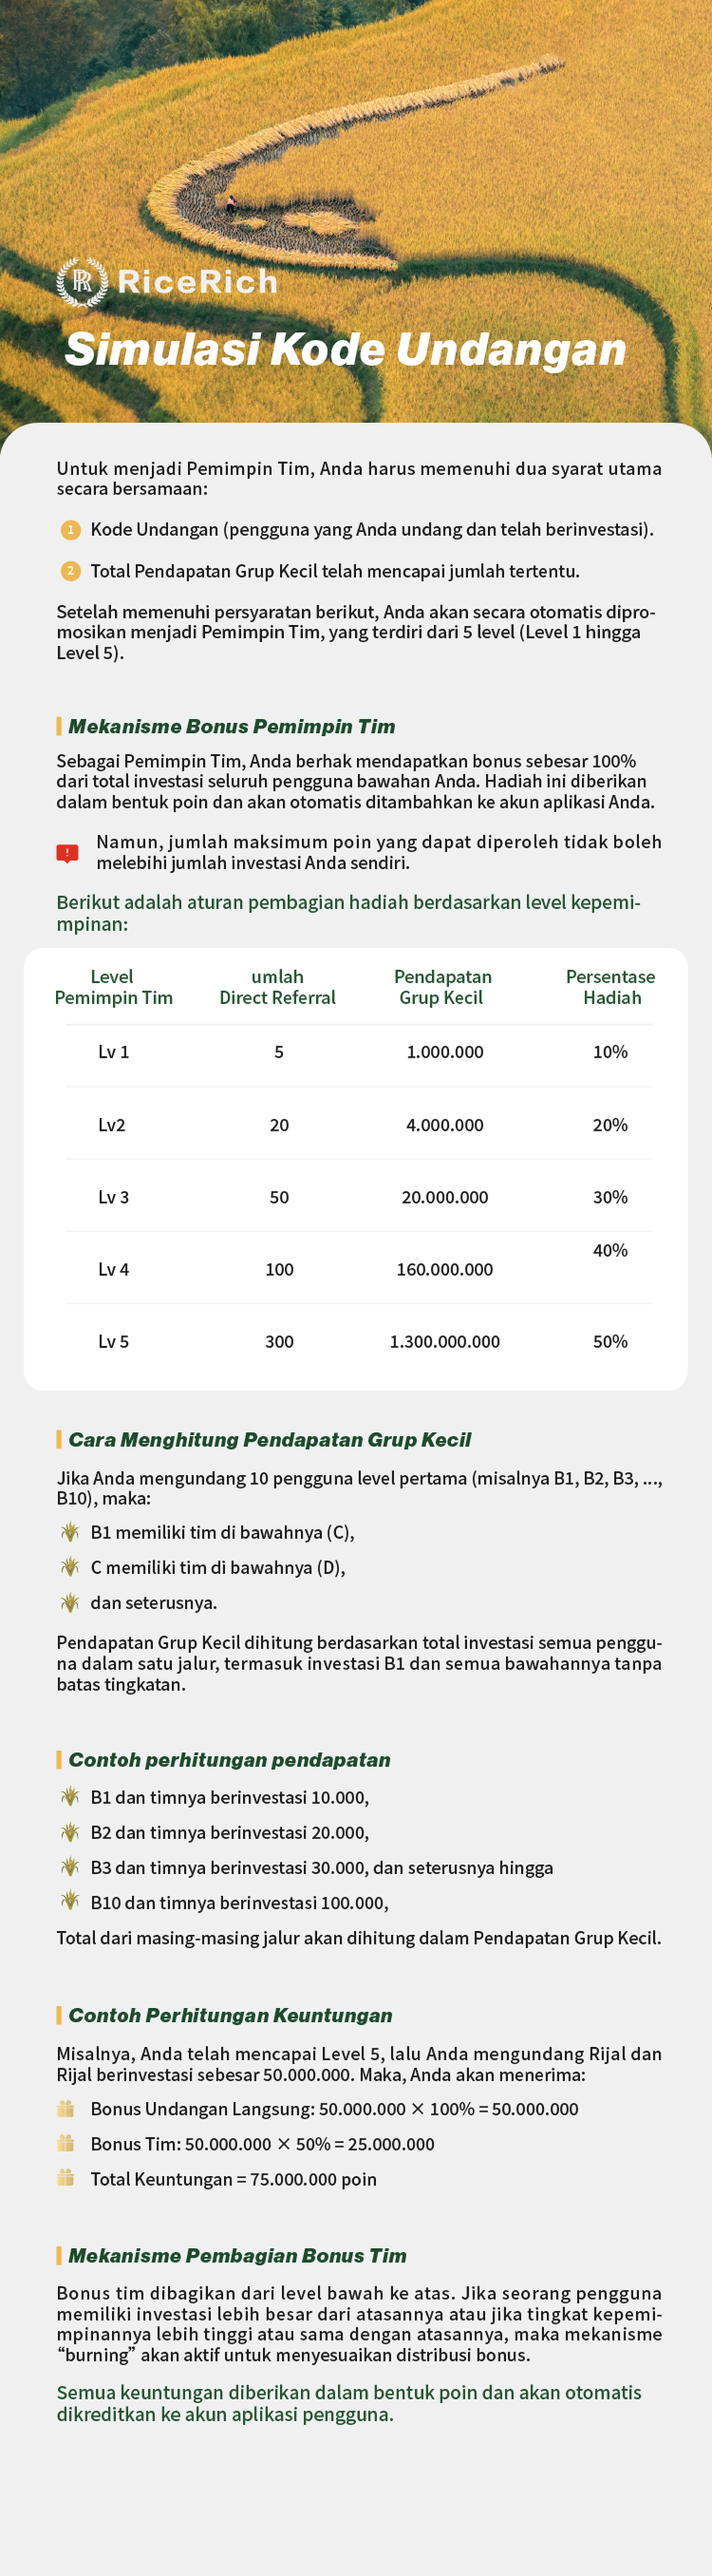
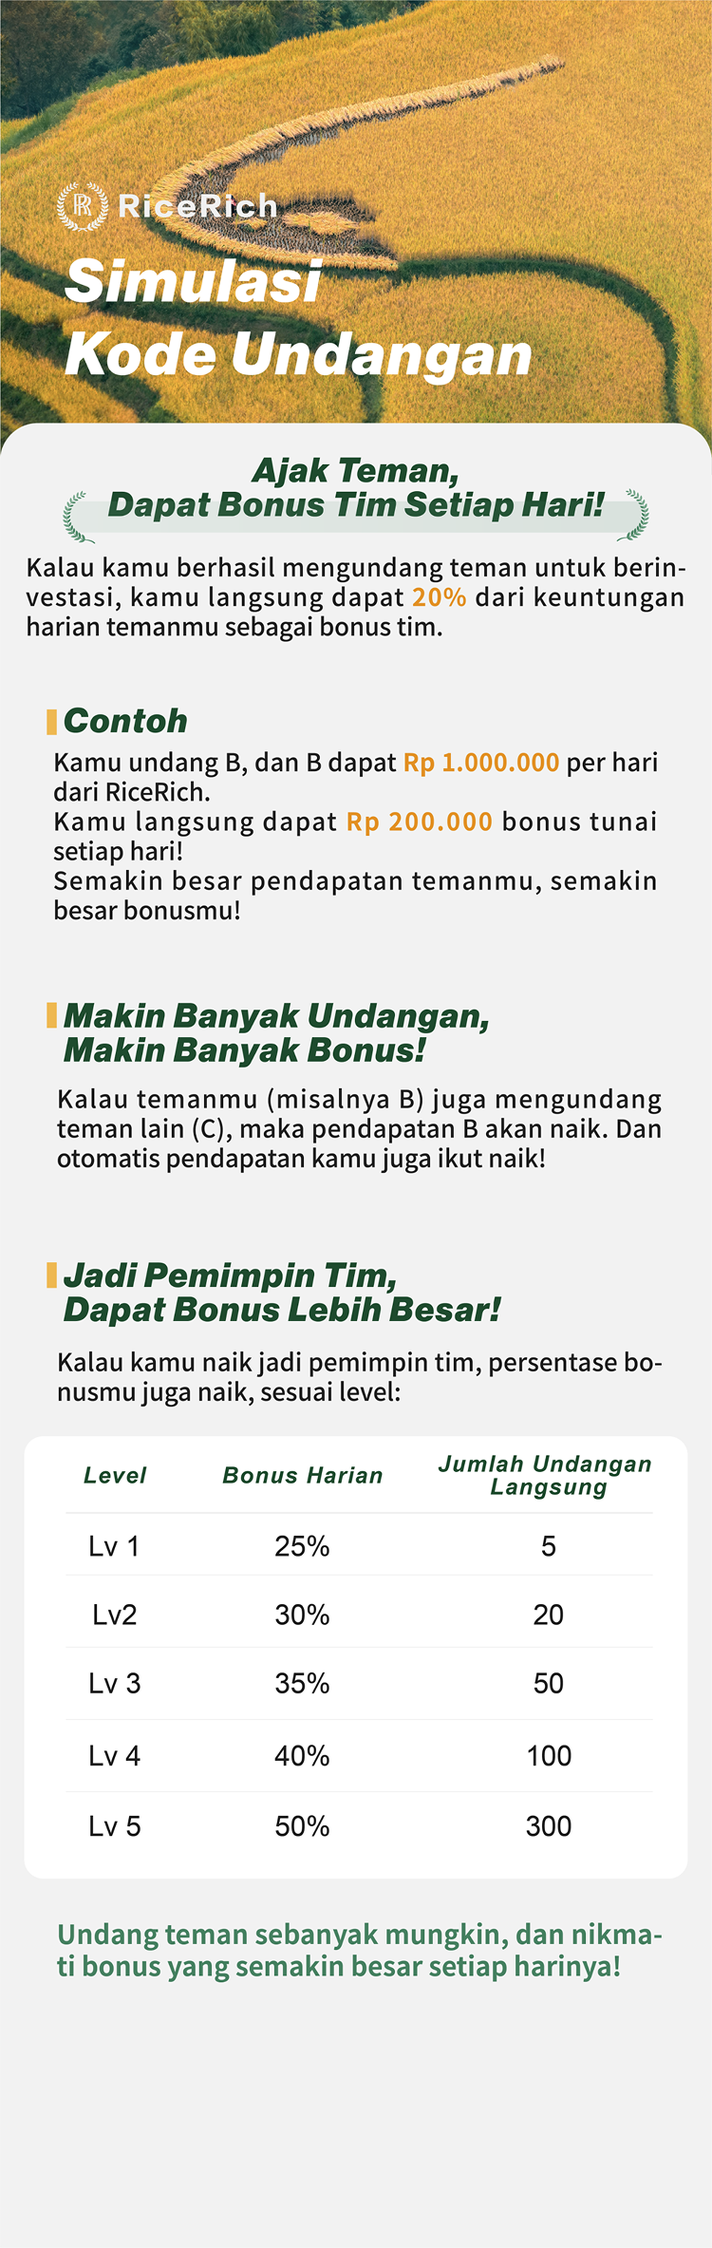
规则图片

Changed region(s): [[0.0, 0.0, 1.0, 0.5243], [0.0613, 0.5551, 0.92, 0.9561], [0.5827, 0.7093, 0.6133, 0.7402]]

diff --git a/src/pages/index/component/productList.vue b/src/pages/index/component/productList.vue
@@ -68,20 +68,39 @@ const props = defineProps({
 
 // "状态 0:可购买-可购买 1：条件未满足-灰色 2：合约生效中，等待合约到期后，再次购买-黄色
 const selectedData = computed(() => {
-    return props.productData.filter(
-        (item) =>
-            (selectActive.value === '' ||
-                selectActive.value === 'Semua' ||
-                item.country === selectActive.value) &&
-            item.product_id !== "P2025060710000"
-    ).sort((a, b) => {
-        // 先按 status 升序
-        if (a.status !== b.status) {
-            return a.status - b.status;
-        }
-        // 如果 status 相同，按 sort 升序
-        return a.sort - b.sort;
-    });
+    return props.productData
+        .filter(item =>
+            selectActive.value === '' ||
+            selectActive.value === 'Semua' ||
+            item.country === selectActive.value
+        )
+        .sort((a, b) => {
+            // 1. is_investing === true 的放到最后
+            if (a.is_investing && !b.is_investing) return 1;
+            if (!a.is_investing && b.is_investing) return -1;
+
+            // 2. 按 status 升序
+            if (a.status !== b.status) {
+                return a.status - b.status;
+            }
+
+            // 3. 如果 status 相同，按 sort 升序
+            return a.sort - b.sort;
+        });
+    // return props.productData.filter(
+    //     (item) =>
+    //         (selectActive.value === '' ||
+    //             selectActive.value === 'Semua' ||
+    //             item.country === selectActive.value)
+    // ).sort((a, b) => {
+    //     // 先按 status 升序
+    //     if (a.status !== b.status) {
+    //         return a.status - b.status;
+    //     }
+    //     // 如果 status 相同，按 sort 升序
+    //     return a.sort - b.sort;
+    // });
+    // is_investing == true 时放在最后
     // return data.sort((a, b) => a.sort - b.sort);
 })
 const userStore = useUserStore()
@@ -182,7 +201,7 @@ const change = (e: any) => {
         }
     }
     .article_product {
-        padding: 10rpx 20rpx;
+        padding: 20rpx 20rpx;
         .product_box {
             position: relative;
             margin-top: 10rpx;

diff --git a/src/pages/team/team.vue b/src/pages/team/team.vue
@@ -381,7 +381,7 @@
 
 								.rankie_name {
 									font-family: Arial;
-									font-size: 24rpx;
+									font-size: 26rpx;
 									font-weight: 400;
 									line-height: 48rpx;
 									text-align: left;
@@ -438,7 +438,7 @@
 								.number_row {
 									.number_title {
 										font-family: Arial;
-										font-size: 20rpx;
+										font-size: 24rpx;
 										font-weight: 500;
 										line-height: 40rpx;
 										text-align: left;
@@ -447,7 +447,7 @@
 
 									.number_text {
 										font-family: Arial;
-										font-size: 20rpx;
+										font-size: 26rpx;
 										font-weight: 500;
 										line-height: 40rpx;
 										text-align: left;
@@ -455,7 +455,7 @@
 
 										.num {
 											font-family: Arial;
-											font-size: 20rpx;
+											font-size: 26rpx;
 											font-weight: 500;
 											line-height: 40rpx;
 											text-align: left;
@@ -473,7 +473,7 @@
 								.number_row {
 									.number_title {
 										font-family: Arial;
-										font-size: 20rpx;
+										font-size: 24rpx;
 										font-weight: 500;
 										line-height: 40rpx;
 										text-align: left;
@@ -482,7 +482,7 @@
 
 									.number_text {
 										font-family: Arial;
-										font-size: 20rpx;
+										font-size: 26rpx;
 										font-weight: 500;
 										line-height: 40rpx;
 										text-align: left;
@@ -490,7 +490,7 @@
 
 										.num {
 											font-family: Arial;
-											font-size: 20rpx;
+											font-size: 26rpx;
 											font-weight: 500;
 											line-height: 40rpx;
 											text-align: left;

diff --git a/src/pages/register/register.vue b/src/pages/register/register.vue
@@ -84,7 +84,7 @@
 						</view>
 
 						<view class="recover_code mt-[50rpx]">
-							<u-message-input v-model="formData.verification_code"
+							<u-message-input v-model="formData.verification_code" @change="inputCodeChange"
 								font-size="64" active-color="#1E1E1E" inactive-color="#29593E" :focus="true"
 								:breathe="true" maxlength="6" mode="bottomLine"></u-message-input>
 						</view>
@@ -197,7 +197,15 @@
 			url
 		})
 	}
-	const codeChange = (text : string) => {
+    const inputCodeChange =(n:string)=>{
+        if (n.length == 6){
+            console.log("提交")
+            setTimeout(()=>{
+                registerEvent()
+            },  500)
+        }
+    }
+	const codeChange = (text : string) => {1
 		codeTips.value = text
 	}
 	const sendSms = async () => {

diff --git a/src/pages/index/index.vue b/src/pages/index/index.vue
@@ -37,7 +37,7 @@
 </template>
 
 <script setup lang="ts">
-	import { onLoad, onPageScroll } from "@dcloudio/uni-app"
+import { onLoad, onPageScroll, onShow } from '@dcloudio/uni-app'
 	import { computed, reactive, ref, nextTick } from 'vue'
 	import { useUserStore } from '@/stores/user'
 	import { storeToRefs } from 'pinia'
@@ -118,11 +118,16 @@
 
     }
 
+    onShow(()=>{
+        console.log("onShow...................")
+        getProductListData()
+    })
 
 	onLoad(()=>{
+        console.log("onLoad》》》》》》》》》》》》》")
 		getData()
 		getNotice()
-        getProductListData()
+        // getProductListData()
 		userStore.getUser()
 
         onPageScroll((event : any) => {

diff --git a/src/pages/invite_rule/invite_rule.vue b/src/pages/invite_rule/invite_rule.vue
@@ -1,7 +1,7 @@
 <template>
 	<view class="container">
 		<view class="imageGroup">
-			<u-image width="750" height="1288" src="@/static/images/page/invite_rule.png"></u-image>
+			<u-image width="750" height="1727" src="@/static/images/page/invite_rule.png"></u-image>
 		</view>
 		<view class="rules">
 			<u-sticky h5-nav-height="0" bg-color="transparent">

diff --git a/src/pages/team_rule/team_rule.vue b/src/pages/team_rule/team_rule.vue
@@ -1,7 +1,7 @@
 <template>
 	<view class="container">
 		<view class="imageGroup">
-			<u-image width="750" height="2712" src="@/static/images/page/team_rule.png"></u-image>
+			<u-image width="750" height="2367" src="@/static/images/page/team_rule.png"></u-image>
 		</view>
 		<view class="rules">
 			<u-sticky h5-nav-height="0" bg-color="transparent">

diff --git a/vite.config.ts b/vite.config.ts
@@ -37,7 +37,7 @@ export default defineConfig({
 		proxy: {
 			"/api": {
 				target: "https://h5www.ricerich.id/",
-				// target: "https://dd45-172-86-104-13.ngrok-free.app/",
+				// target: "https://aad7-202-150-3-203.ngrok-free.app/",
 				changeOrigin: true,
 				secure: true,
 				rewrite: (path) => path.replace(/^\/api/, "api")

diff --git a/src/pages/transaction_info/transaction_info.vue b/src/pages/transaction_info/transaction_info.vue
@@ -169,6 +169,7 @@
 	}
 	const getInfo = async () => {
 		const data = await monthReport(filterFormat({ year: year.value, month: month.value }))
+        console.log(data)
 		totalCashProceeds.value = data ? data.extend.totalCashProceeds : 0
 		totalPointsIncome.value = data ? data.extend.totalPointsIncome : 0
 	}
